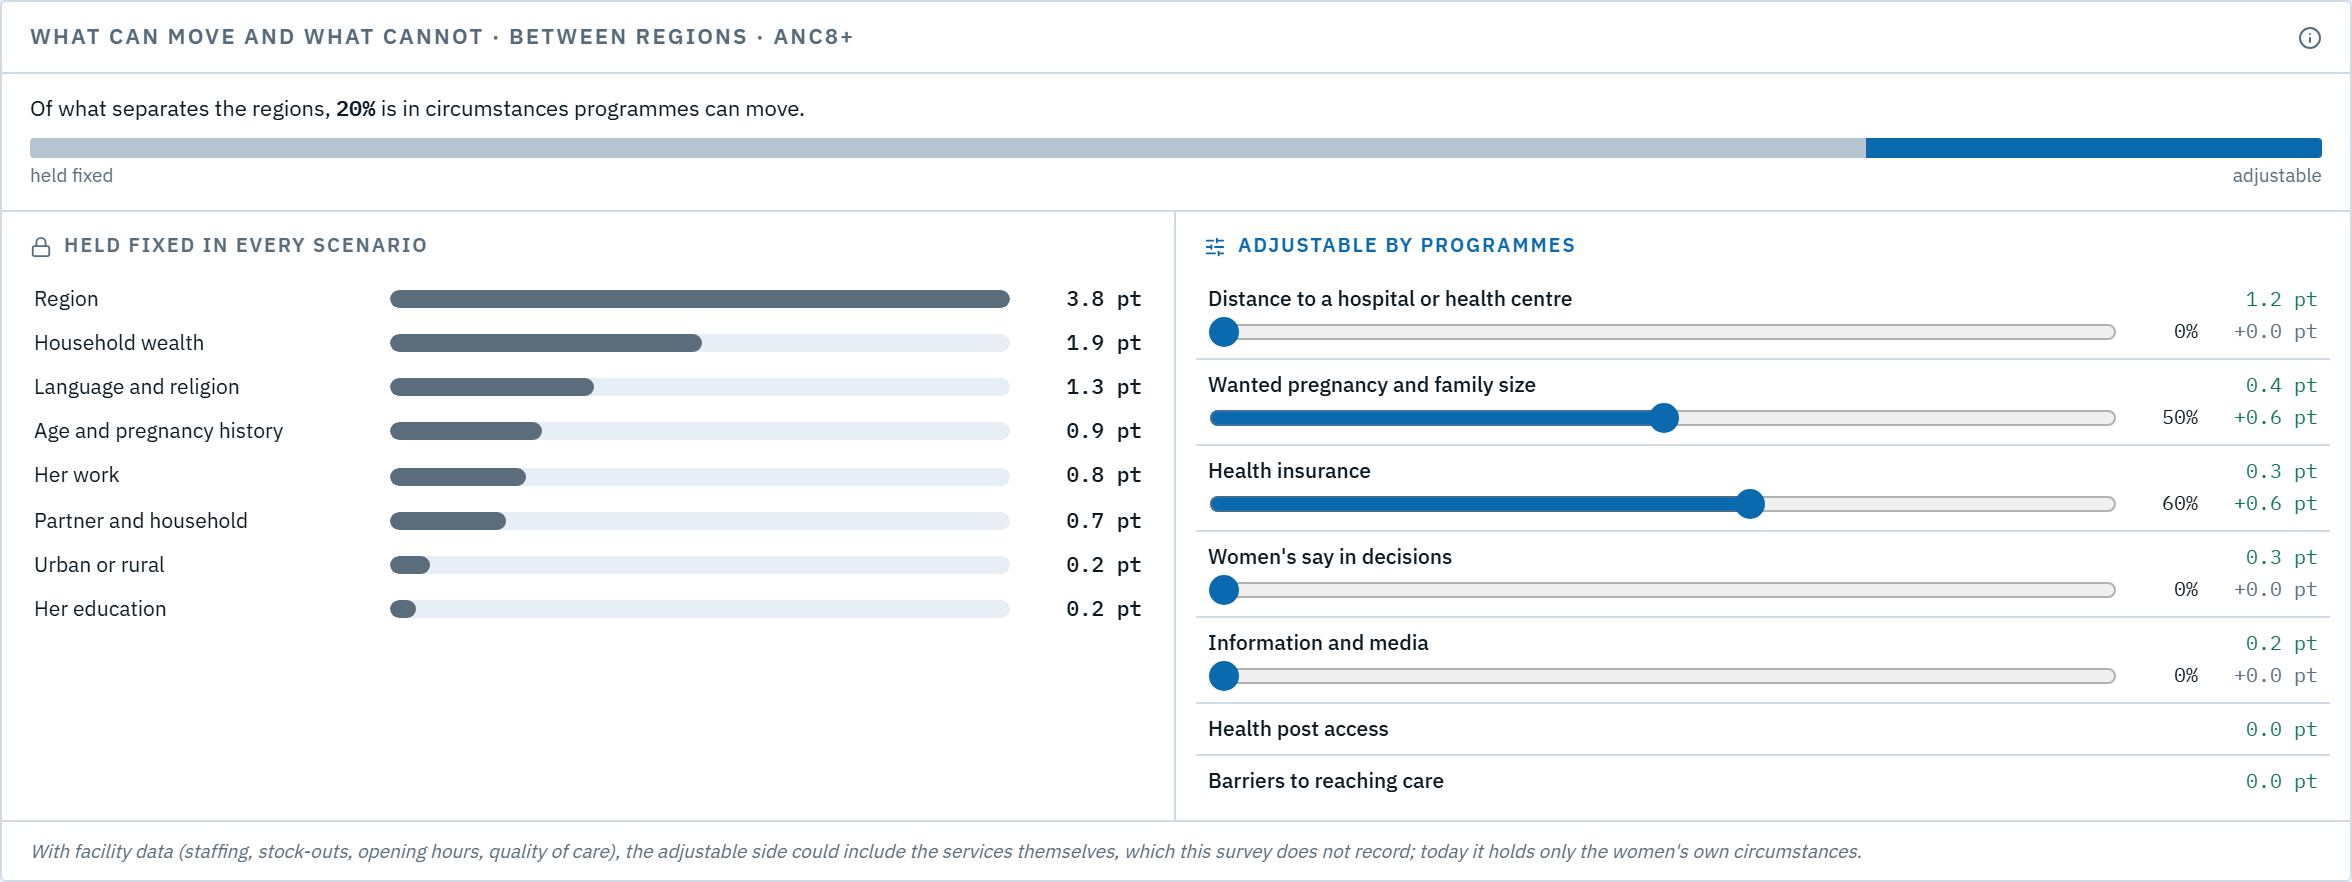
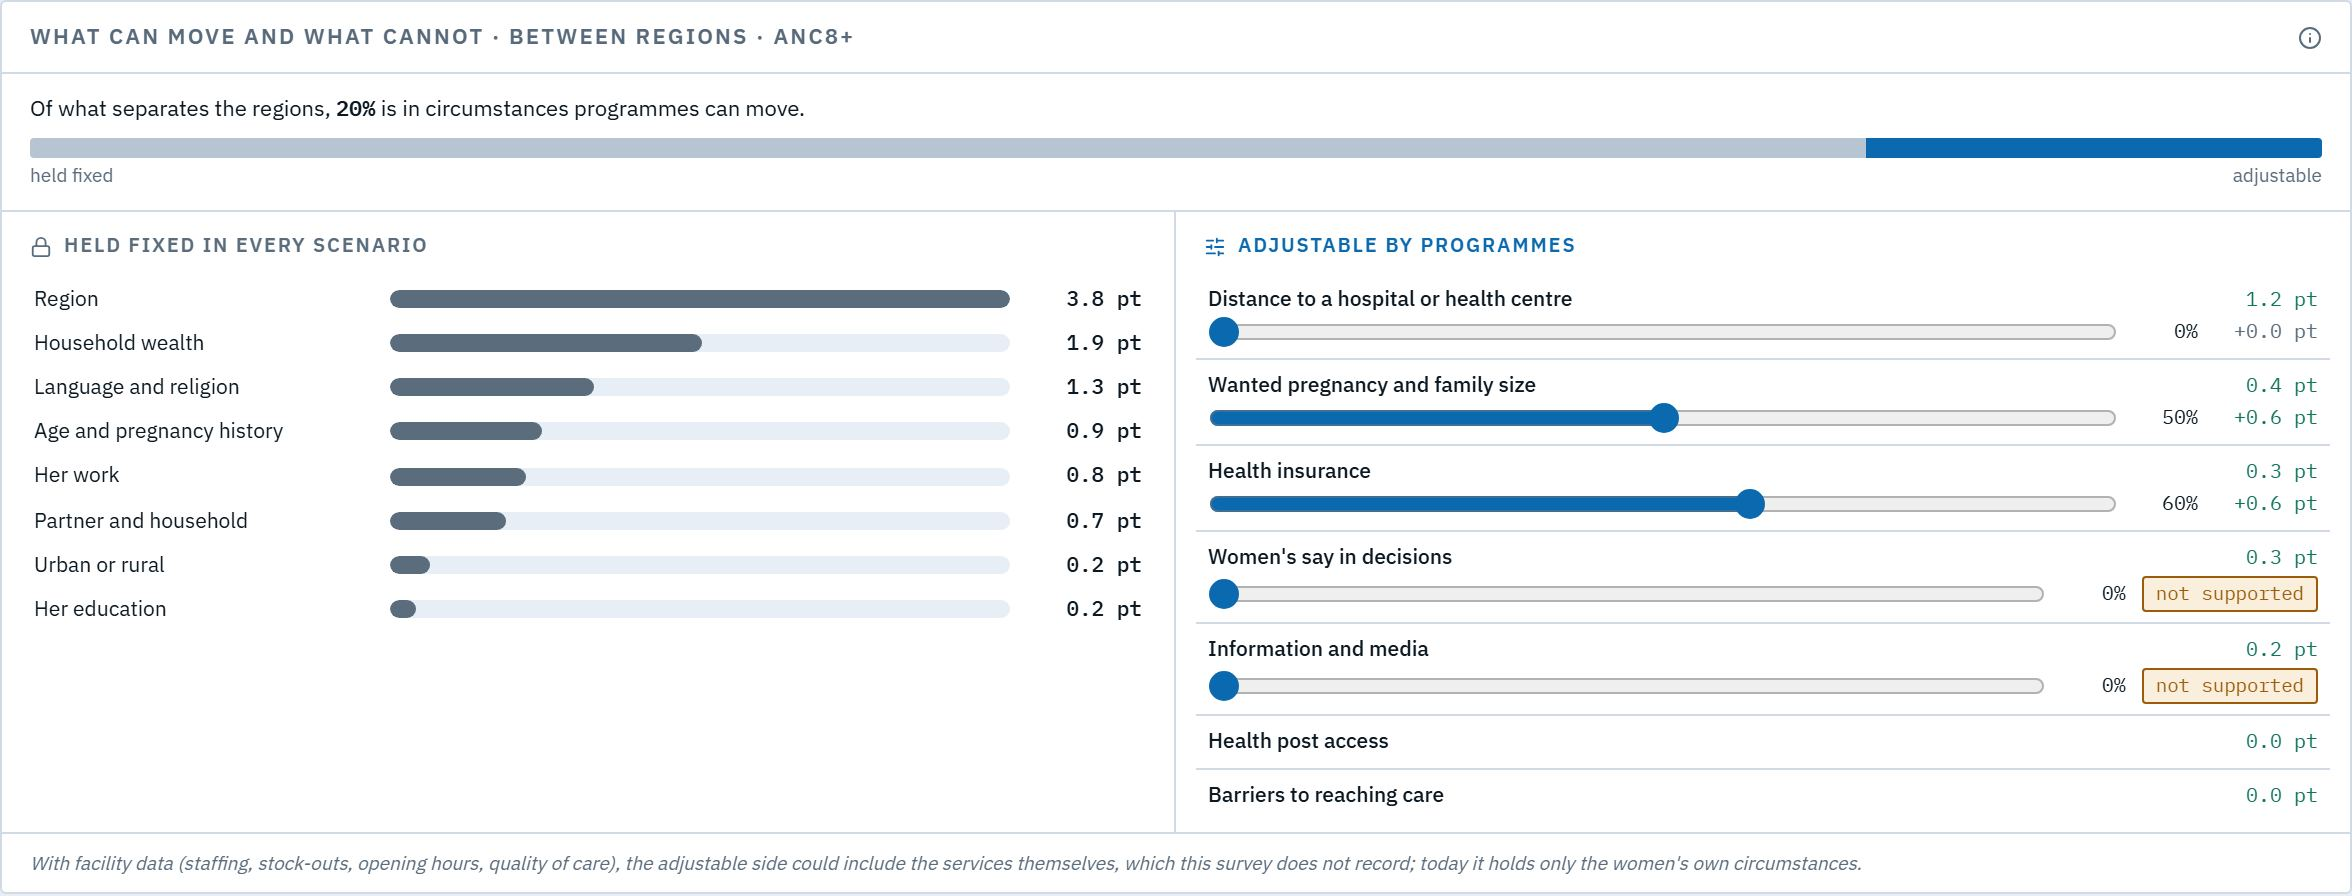
Revert "Planner: a lever is judged on the rung being planned"
This reverts commit 46919d0b272f4dd443fa5545a90d7b8b8dd255f5.

diff --git a/app/src/app/planner/page.tsx b/app/src/app/planner/page.tsx
@@ -62,7 +62,7 @@ export default function PlannerPage() {
 
   const view = useMemo(() => {
     if (!sc.data || !reg.data) return null;
-    const d = forModel(sc.data, lm, rung);
+    const d = forModel(sc.data, lm);
     const now = (r: string | null) => {
       const c = r ? reg.data!.cohorts.recent.regions[r] : reg.data!.cohorts.recent.national;
       return { anc1: c.reach1, anc4: c.reach4, anc8: c.reach8 };
@@ -77,7 +77,7 @@ export default function PlannerPage() {
     ) as Record<SRung, number>;
     // the same scenario under every lever model, for the comparison
     const byModel = Object.fromEntries(models.map((m) => {
-      const dm = forModel(sc.data!, m, rung);
+      const dm = forModel(sc.data!, m);
       return [m, {
         national: project(dm, dm.regions.length - 1, now(null), cov),
         byRegion: Object.fromEntries(REGION_NAMES.map((r) => [r, project(dm, dm.regions.indexOf(r), now(r), cov)])),
@@ -85,12 +85,12 @@ export default function PlannerPage() {
     }));
     return { byRegion, national, births, gained, byModel };
     // eslint-disable-next-line react-hooks/exhaustive-deps
-  }, [sc.data, reg.data, studio.params.get("lv"), lm, rung]);
+  }, [sc.data, reg.data, studio.params.get("lv"), lm]);
 
   const err = sc.error ?? reg.error ?? geo.error;
   if (err) return <Screen><InlineError message={err} /></Screen>;
   if (!sc.data || !reg.data || !view) return <Screen><PanelLoading rows={10} /></Screen>;
-  const d = forModel(sc.data, lm, rung);
+  const d = forModel(sc.data, lm);
   const modelPicker = models.length > 1 ? (
     <Segmented label="Levers from" options={models.map((m) => ({ key: m, label: m === "ebm" ? "Boosting" : "Logistic", title: MODEL_SHORT[m] }))}
       value={lm} onChange={(k) => studio.set({ lm: k })} />
@@ -191,13 +191,11 @@ export default function PlannerPage() {
               );
             })}
           </div>
-          {unsupported.length > 0 && (
-            <div className="px-14 py-10 border-t border-border flex items-center gap-8">
-              <button type="button" onClick={() => setShowAll((s) => !s)} className="text-10.5 text-accent hover:underline">
-                {showAll ? "Hide" : "Show"} the {unsupported.length === 1 ? "lever" : `${unsupported.length} levers`} the data do not support at {RUNG_LABEL[rung]}
-              </button>
-            </div>
-          )}
+          <div className="px-14 py-10 border-t border-border flex items-center gap-8">
+            <button type="button" onClick={() => setShowAll((s) => !s)} className="text-10.5 text-accent hover:underline">
+              {showAll ? "Hide" : "Show"} the {unsupported.length} levers the data do not support
+            </button>
+          </div>
         </Panel>
 
         <div className="flex flex-col gap-10 md:gap-14 min-w-0">
@@ -386,10 +384,9 @@ export default function PlannerPage() {
         </div>
       </div>
 
-      {unsupported.length > 0 && (
       <Panel help="planner.unsupported"
-        title={`Levers the data do not support · ${RUNG_LABEL[rung]}`}
-        how={`Levers where the chosen model expects ${RUNG_LABEL[rung]} to fall, not rise, when the lever is applied. Every lever model is shown. These are associations: women who listen to the radio weekly, for example, are no more likely to use ANC in this survey, once everything else about them is known. They are not evidence that the programmes would harm; they are evidence that the survey cannot show they would help.`}
+        title="Levers the data do not support"
+        how="Levers where the chosen model expects at least one rung to fall, not rise, when the lever is applied. Every lever model is shown. These are associations: women who listen to the radio weekly, for example, are no more likely to use ANC in this survey, once everything else about them is known. They are not evidence that the programmes would harm; they are evidence that the survey cannot show they would help."
       >
         <Table
           minWidth={620}
@@ -422,7 +419,6 @@ export default function PlannerPage() {
         </div>
         <DataNote>Results from programmes actually delivered (enrolment drives, new health posts, family-planning outreach), with ANC counts before and after, would turn these associations into effect estimates.</DataNote>
       </Panel>
-      )}
     </Screen>
   );
 }

diff --git a/app/src/lib/help/plan.ts b/app/src/lib/help/plan.ts
@@ -320,7 +320,7 @@ export const PLAN: HelpTopic[] = [
           "Sliders combine exactly, not by simple adding: two levers that reach the same women do not double-count.",
           "Logistic regression on the 21 predictors scores the levers; everything on the page follows it.",
           "The circular arrow in the title clears all levers.",
-          "**Show the levers the data do not support** adds the levers where the model expects the chosen rung to fall; they are there for honesty, marked \"not supported\". Switch the rung and the verdict can change.",
+          "**Show the levers the data do not support** adds the levers where the model expects at least one rung to fall; they are there for honesty, marked \"not supported\".",
         ],
         watch: "Association-based: what the model expects if women's circumstances changed, not what a programme would cause.",
         terms: ["lever", "eligible", "g-computation", "association"],
@@ -390,7 +390,7 @@ export const PLAN: HelpTopic[] = [
       {
         id: "unsupported",
         title: "Levers the data do not support",
-        shows: "The levers where the chosen model expects the chosen rung to fall, not rise, when applied, with their effect on every rung.",
+        shows: "The levers where the chosen model expects at least one rung to fall, not rise, when applied, with every lever model's estimates.",
         read: [
           "Each cell: the change at full reach from logistic regression.",
           "These do not show the programmes would harm. They show the survey cannot show they would help: women who listen to the radio weekly, for example, are no more likely to complete care once everything else about them is known.",

diff --git a/app/src/lib/scenario.ts b/app/src/lib/scenario.ts
@@ -27,8 +27,6 @@ export interface Lever {
   supported: boolean;
   /** Supported under each lever model (every rung rises). */
   supported_by?: Record<string, boolean>;
-  /** Per lever model and rung: does the model expect that rung to rise? */
-  supported_at?: Record<string, Record<string, boolean>>;
   models_agree: boolean;
 }
 
@@ -64,14 +62,11 @@ export const EARLY = "early";
 
 export const MODEL_SHORT: Record<string, string> = { ebm: "Explainable boosting", logistic: "Logistic regression" };
 
-/** The scenario as one lever model sees it: its numbers and its own "supported" verdicts,
- *  on the rung being planned when one is given, else on every rung. */
-export function forModel(d: ScenarioData, model: string, rung?: string): ScenarioData {
+/** The scenario as one lever model sees it: its numbers and its own "supported" verdicts. */
+export function forModel(d: ScenarioData, model: string): ScenarioData {
   const m = d.by_model?.[model];
-  const verdict = (l: ScenarioData["levers"][number]) =>
-    (rung ? l.supported_at?.[model]?.[rung] : undefined) ?? l.supported_by?.[model] ?? l.supported;
-  if (!m) return { ...d, levers: d.levers.map((l) => ({ ...l, supported: verdict(l) })) };
-  return { ...d, rungs: m.rungs, levers: d.levers.map((l) => ({ ...l, supported: verdict(l) })) };
+  if (!m) return d;
+  return { ...d, rungs: m.rungs, levers: d.levers.map((l) => ({ ...l, supported: l.supported_by?.[model] ?? l.supported })) };
 }
 
 /** Coverage per lever key (0..1), including "early". */

diff --git a/app/src/app/about/page.tsx b/app/src/app/about/page.tsx
@@ -93,7 +93,7 @@ export default function AboutPage() {
           <Row to="/war" go="Conflict simulator"
             text={<>The Tigray war cut first contact by about <b className="font-mono">{n(war?.did_check.anc1.did, (v) => `${Math.round(v * 100)}`)}</b> points.</>} />
           <Row to="/planner" go="Scenario planner"
-            text={<><b className="font-mono">{supported ?? "…"}</b> levers raise every rung; the others raise some rungs and not others.</>} />
+            text={<><b className="font-mono">{supported ?? "…"}</b> levers are supported by the data; the rest are shown but not backed.</>} />
           <Row to="/your-data?mode=register" go="First-visit screener" text="Twelve questions match the 21-predictor model." />
           <Row to="/models" go="Model analysis"
             text={<>The three models on the 21 finish within <b className="font-mono">{n(spread8, (v) => v.toFixed(2))}</b> average precision of each other at ANC8+.</>} />

diff --git a/app/src/app/page.tsx b/app/src/app/page.tsx
@@ -132,7 +132,7 @@ function ActOn() {
     const never = REGION_NAMES.map((r) => ({ r, n: births(r) * R.cohorts.recent.regions[r].never }))
       .sort((a, b) => b.n - a.n)[0];
     const natIdx = sc.data.regions.length - 1;
-    const levers = [...sc.data.levers.filter((l) => l.supported_at?.[sc.data!.primary ?? "logistic"]?.anc8 ?? l.supported).map((l) => l.key), EARLY]
+    const levers = [...sc.data.levers.filter((l) => l.supported).map((l) => l.key), EARLY]
       .map((k) => ({ k, v: leverWeight(sc.data!, k, natIdx).anc8?.v ?? 0 }))
       .sort((a, b) => b.v - a.v);
     const top = levers[0];

diff --git a/scripts/export_viz_data.py b/scripts/export_viz_data.py
@@ -228,14 +228,11 @@ def scenarios_block() -> dict | None:
         m["primary"] = keep[0]
     m["rungs"] = m["by_model"][m["primary"]]["rungs"]
     rungs = ("anc1", "anc4", "anc8")
-    # A lever is offered by default only where the data back it: the model expects the
-    # rung being planned to rise when it is applied (supported_at, per rung). The others
-    # are shown, with their numbers, as levers the data do not support at that rung.
-    # `supported` keeps the stricter reading, every rung rises. Each lever model is
-    # judged on its own.
+    # A lever is offered by default only where the data back it: the model expects
+    # every rung to rise when it is applied. The others are shown, with their numbers,
+    # as levers the data do not support. Each lever model is judged on its own.
     for i, lv in enumerate(m["levers"]):
         gains = {k: [m["by_model"][k]["rungs"][r]["gain"][-1][i] for r in rungs] for k in keep}
-        lv["supported_at"] = {k: {r: g > 0 for r, g in zip(rungs, v)} for k, v in gains.items()}
         lv["supported_by"] = {k: all(g > 0 for g in v) for k, v in gains.items()}
         lv["supported"] = lv["supported_by"][m["primary"]]
         signs = [tuple(g > 0 for g in v) for v in gains.values()]
